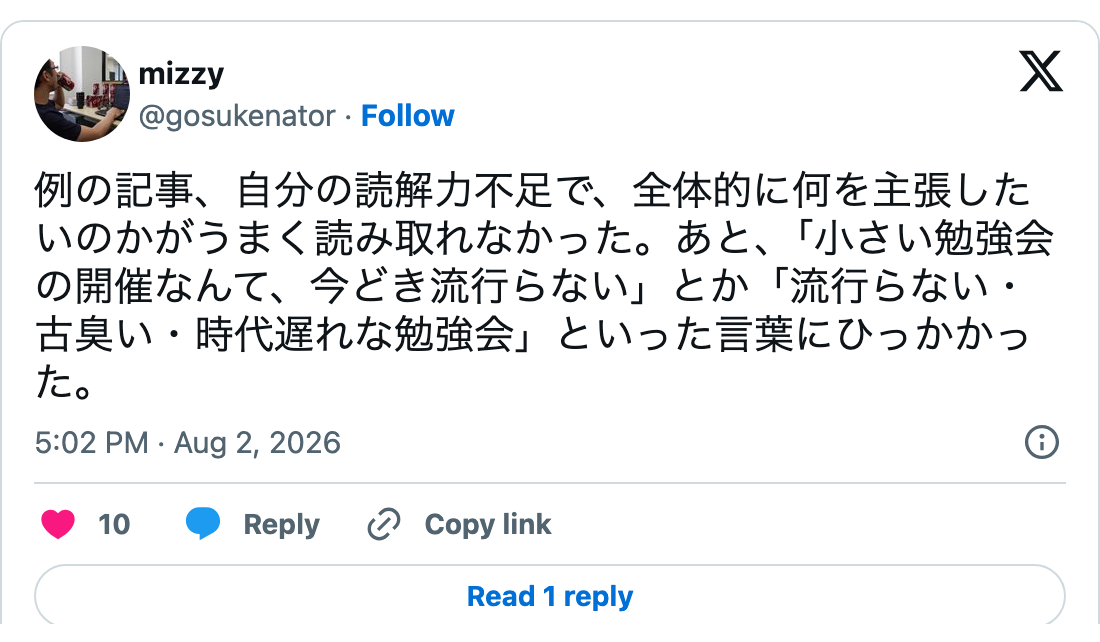
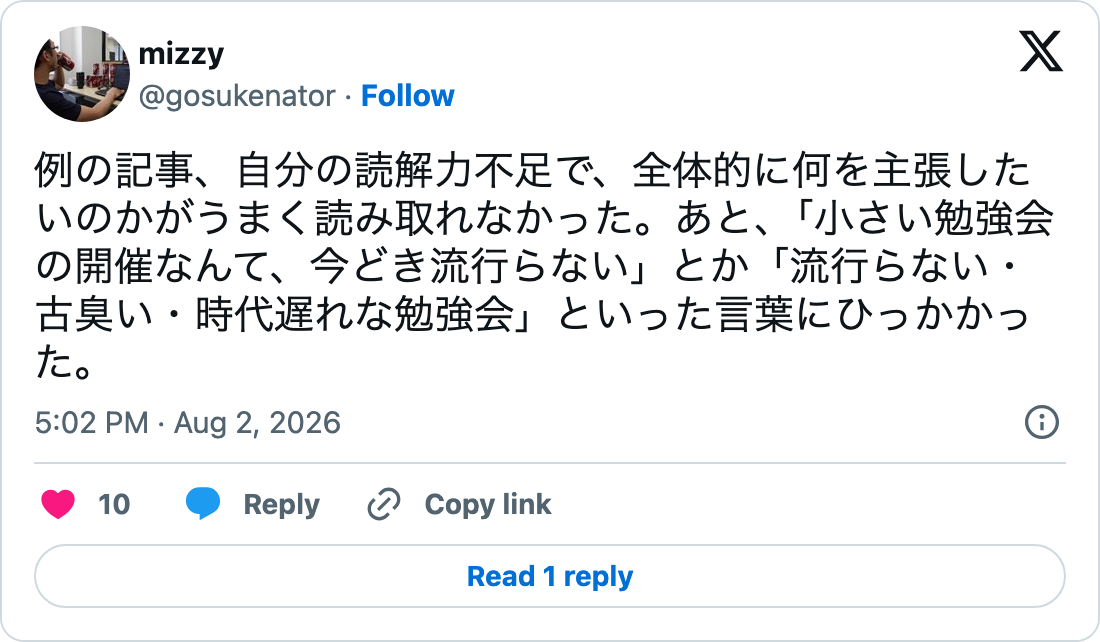
fix: capture the full widget card and make the tweet slide the example face
The rendered container's inline 10px margins offset the iframe below the
capture viewport, clipping the card bottom (measured). The wrapper now
kills those margins with !important and measures/settles on the iframe's
bottom edge instead of its height. The example deck drops its cover so
the tweet slide is the gallery/OGP face, and its cache snapshot is
regenerated complete.

diff --git a/examples/tweet-embed/css/base.css b/examples/tweet-embed/css/base.css
@@ -12,18 +12,6 @@
   font-family: Inter, "Helvetica Neue", Arial, sans-serif;
 }
 
-.tweet-embed-cover {
-  display: grid;
-  align-content: center;
-}
-
-.tweet-embed-cover h1 {
-  max-width: 880px;
-  margin: 0;
-  font-size: 76px;
-  line-height: 1.04;
-}
-
 .tweet-embed-post {
   display: grid;
   grid-template-columns: minmax(0, 0.82fr) minmax(0, 1.18fr);

diff --git a/crates/peitho/src/main.rs b/crates/peitho/src/main.rs
@@ -1845,15 +1845,19 @@ fn embed_wrapper_html(
 ) -> String {
     let width = params.width_css_px;
     let theme = params.theme.as_str();
-    let (script_error_release, timeout_release) = match mode {
+    let (script_error_release, timeout_release, settled_action) = match mode {
         EmbedWrapperMode::Measure => (
             "  js.onerror = releaseLoad;\n",
             "setTimeout(releaseLoad, 15000);\n",
+            concat!(
+                "        document.title = \"peitho-embed-height:\" + stableBottom;\n",
+                "        releaseLoad();\n"
+            ),
         ),
         EmbedWrapperMode::Capture => {
             // Capture has no failure release: a named timeout is safer than
             // completing load and silently caching a non-rendered screenshot.
-            ("", "")
+            ("", "", "        releaseLoad();\n")
         }
     };
     // `{normalized_url}` is safe only under `parse_x_status_url`'s strict grammar; revisit if loosened.
@@ -1863,7 +1867,7 @@ fn embed_wrapper_html(
 <head>
 <meta charset="utf-8">
 <title>peitho-embed-pending</title>
-<style>html,body{{margin:0;padding:0;width:{width}px;background:#fff;overflow:hidden}}blockquote{{margin:0}}</style>
+<style>html,body{{margin:0;padding:0;width:{width}px;background:#fff;overflow:hidden}}blockquote{{margin:0}}div.twitter-tweet-rendered{{margin:0 !important}}</style>
 </head>
 <body>
 <blockquote class="twitter-tweet" data-width="{width}" data-theme="{theme}"><a href="{normalized_url}">View post on X</a></blockquote>
@@ -1895,17 +1899,30 @@ window.twttr = (function(d, s, id) {{
 }}(document, "script", "twitter-wjs"));
 {timeout_release}twttr.ready(function(twttr) {{
   twttr.events.bind("rendered", function(event) {{
-    try {{
-      var iframe = event && event.target && event.target.tagName === "IFRAME"
-        ? event.target
-        : document.querySelector("iframe:not(#peitho-load-holder)");
-      if (!iframe) return;
-      var height = Math.ceil(iframe.getBoundingClientRect().height);
-      if (!Number.isFinite(height) || height <= 0) return;
-      document.title = "peitho-embed-height:" + height;
-    }} finally {{
-      releaseLoad();
+    var iframe = event && event.target && event.target.tagName === "IFRAME"
+      ? event.target
+      : document.querySelector("iframe:not(#peitho-load-holder)");
+    if (!iframe) return;
+    var stableBottom = 0;
+    var stableCount = 0;
+    function pollSettledBottom() {{
+      if (loadReleased) return;
+      var bottom = Math.ceil(iframe.getBoundingClientRect().bottom);
+      if (!Number.isFinite(bottom) || bottom <= 0) {{
+        stableBottom = 0;
+        stableCount = 0;
+      }} else if (bottom === stableBottom) {{
+        stableCount += 1;
+      }} else {{
+        stableBottom = bottom;
+        stableCount = 1;
+      }}
+      if (stableCount >= 3) {{
+{settled_action}        return;
+      }}
+      setTimeout(pollSettledBottom, 100);
     }}
+    setTimeout(pollSettledBottom, 100);
   }});
 }});
 </script>
@@ -4220,18 +4237,25 @@ contexts:
             assert!(html.contains(r#"data-theme="light""#));
             assert!(html.contains("https://platform.x.com/widgets.js"));
             assert!(html.contains("twttr.events.bind(\"rendered\""));
-            assert!(html.contains("peitho-embed-height:"));
-            assert!(html.contains("getBoundingClientRect().height"));
+            assert!(html.contains("getBoundingClientRect().bottom"));
+            assert!(!html.contains("getBoundingClientRect().height"));
+            assert!(html.contains("function pollSettledBottom()"));
+            assert!(html.contains("stableCount += 1;"));
+            assert!(html.contains("stableCount = 1;"));
+            assert!(html.contains("if (stableCount >= 3)"));
+            assert!(html.contains("setTimeout(pollSettledBottom, 100);"));
             assert!(html.contains(r#"<iframe id="peitho-load-holder""#));
             assert!(html.contains("holder.contentDocument.open()"));
             assert!(html.contains(r#"holder.contentDocument.write("holding load")"#));
             assert!(html.contains("holder.contentDocument.close()"));
-            assert!(html.contains("finally {\n      releaseLoad();\n    }"));
             assert!(html.contains("margin:0"));
+            assert!(html.contains("div.twitter-tweet-rendered{margin:0 !important}"));
             assert!(!html.contains("image.decode"));
         }
+        assert!(measure.contains("document.title = \"peitho-embed-height:\" + stableBottom;"));
         assert!(measure.contains("js.onerror = releaseLoad;"));
         assert!(measure.contains("setTimeout(releaseLoad, 15000);"));
+        assert!(!capture.contains("document.title = \"peitho-embed-height:"));
         assert!(!capture.contains("js.onerror = releaseLoad;"));
         assert!(!capture.contains("setTimeout(releaseLoad, 15000);"));
     }

diff --git a/docs/plans/2026-08-04-tweet-embeds.md b/docs/plans/2026-08-04-tweet-embeds.md
@@ -447,12 +447,13 @@ missing function.
 
 **Implementation**: Emit `<!doctype html>`, a white, marginless, overflow-hidden
 550px page, one `<blockquote class="twitter-tweet">` containing an anchor to
-the canonical URL, and the official `platform.x.com/widgets.js` loader. Set
+the canonical URL, and the official `platform.x.com/widgets.js` loader. The
+rendered container has inline 10px vertical margins that offset the iframe, so
+override them with `div.twitter-tweet-rendered { margin: 0 !important; }`. Set
 the initial title to `peitho-embed-pending`. Inside `twttr.ready`, bind
 `twttr.events` `rendered`; locate the rendered iframe, compute
-`Math.ceil(getBoundingClientRect().height)`, and set
-`document.title = "peitho-embed-height:" + height` only for a positive finite
-height. `EmbedWrapperMode::{Measure,Capture}` both add a hidden zero-size load
+`Math.ceil(getBoundingClientRect().bottom)` so any residual offset is included,
+and publish it only when positive and finite. `EmbedWrapperMode::{Measure,Capture}` both add a hidden zero-size load
 holder iframe, open/write its child document before loading `widgets.js`, and
 release it from the `rendered` handler's `finally` path. Measure additionally
 sets `js.onerror = releaseLoad` and a 15-second `setTimeout(releaseLoad, 15000)`;

diff --git a/site/content/examples/tweet-embed.md b/site/content/examples/tweet-embed.md
@@ -24,7 +24,7 @@ in both outputs and remains available offline.
 
 ## What to look at
 
-The second slide combines a short body line with the generated image in a
+The slide combines a short body line with the generated image in a
 required `accepts="image"` slot. If the cache is absent and the post has been
 deleted or cannot render, Peitho stops with a line-numbered build error instead
 of silently dropping the embed.

diff --git a/examples/tweet-embed/deck.md b/examples/tweet-embed/deck.md
@@ -1,6 +1,3 @@
-# Tweet embeds
-
----
 # Snapshotted at build time
 
 This official X post was captured once, cached locally, and emitted as an image.
